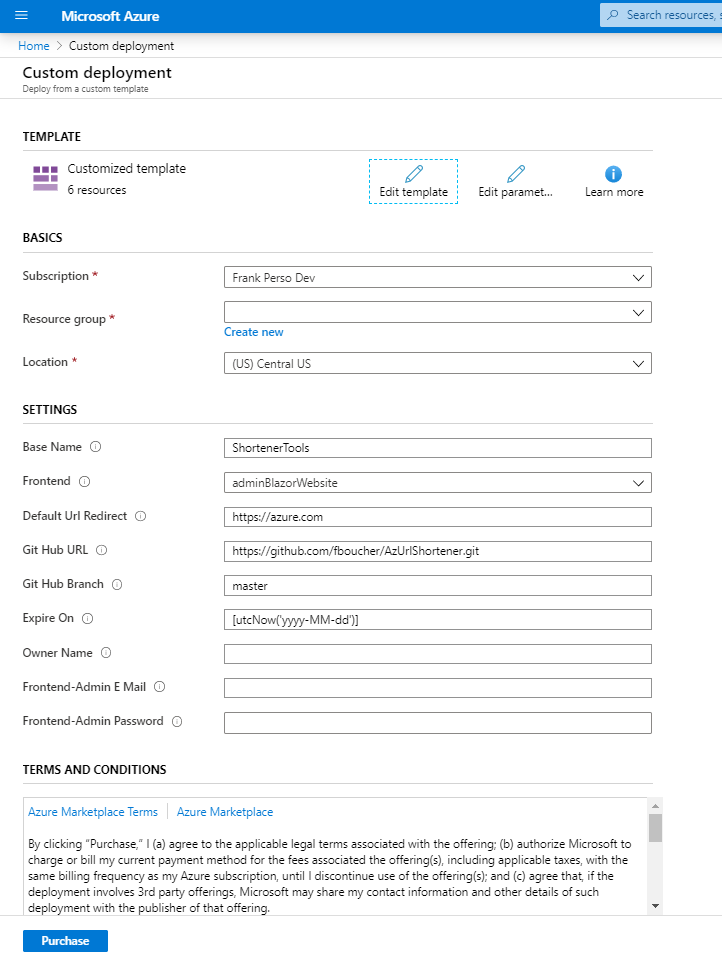
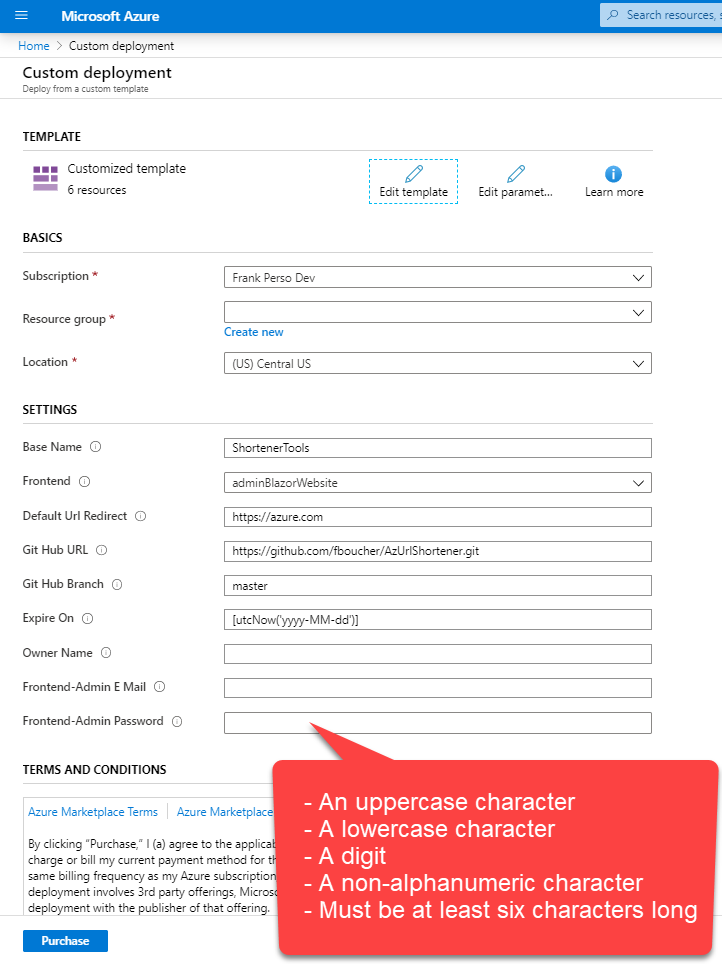
Adding the pwd specs

Changed region(s): [[0.3657, 0.7469, 1.0, 1.0]]

diff --git a/azFunctions-deployment.md b/azFunctions-deployment.md
@@ -17,10 +17,15 @@ This will open the Azure Portal (portal.azure.com) in your subscription and crea
 - **Default Url Redirect**: Default URL use when the key pass by the user is not found.
 - **GitHub URL and Branch**: Keep the default if you when to deploy from Frank's master repo. 
 
-#### Setting for adminBlazorWebsite
+#### Setting for adminBlazorWebsite (Required only if frontend = adminBlazorWebsite)
 
-- **Frontend-Admin E Mail** : (Required only if frontend = adminBlazorWebsite) The EMail use to connect into the admin Blazor Website.
-- **Frontend-Admin Password** : (Required only if frontend = adminBlazorWebsite) Password use to connect into the admin Blazor Website. It MOST by strong Uppercase, lowercase, numbers, and special characters.
+- **Frontend-Admin E Mail**: The EMail use to connect into the admin Blazor Website.
+- **Frontend-Admin Password**: Password use to connect into the admin Blazor Website. It **_MOST_** have:
+  - an uppercase character
+  - a lowercase character
+  - a digit
+  - a non-alphanumeric character 
+  - _must be at least six characters long_
 
 
 - **Expire On and Owner Name**: Those value are for tags. They **won't affect** in any cases your deployment. I use it in another project ([AzSubscriptionCleaner](https://github.com/FBoucher/AzSubscriptionCleaner)) to clean my subscription; without this project it's just information.
